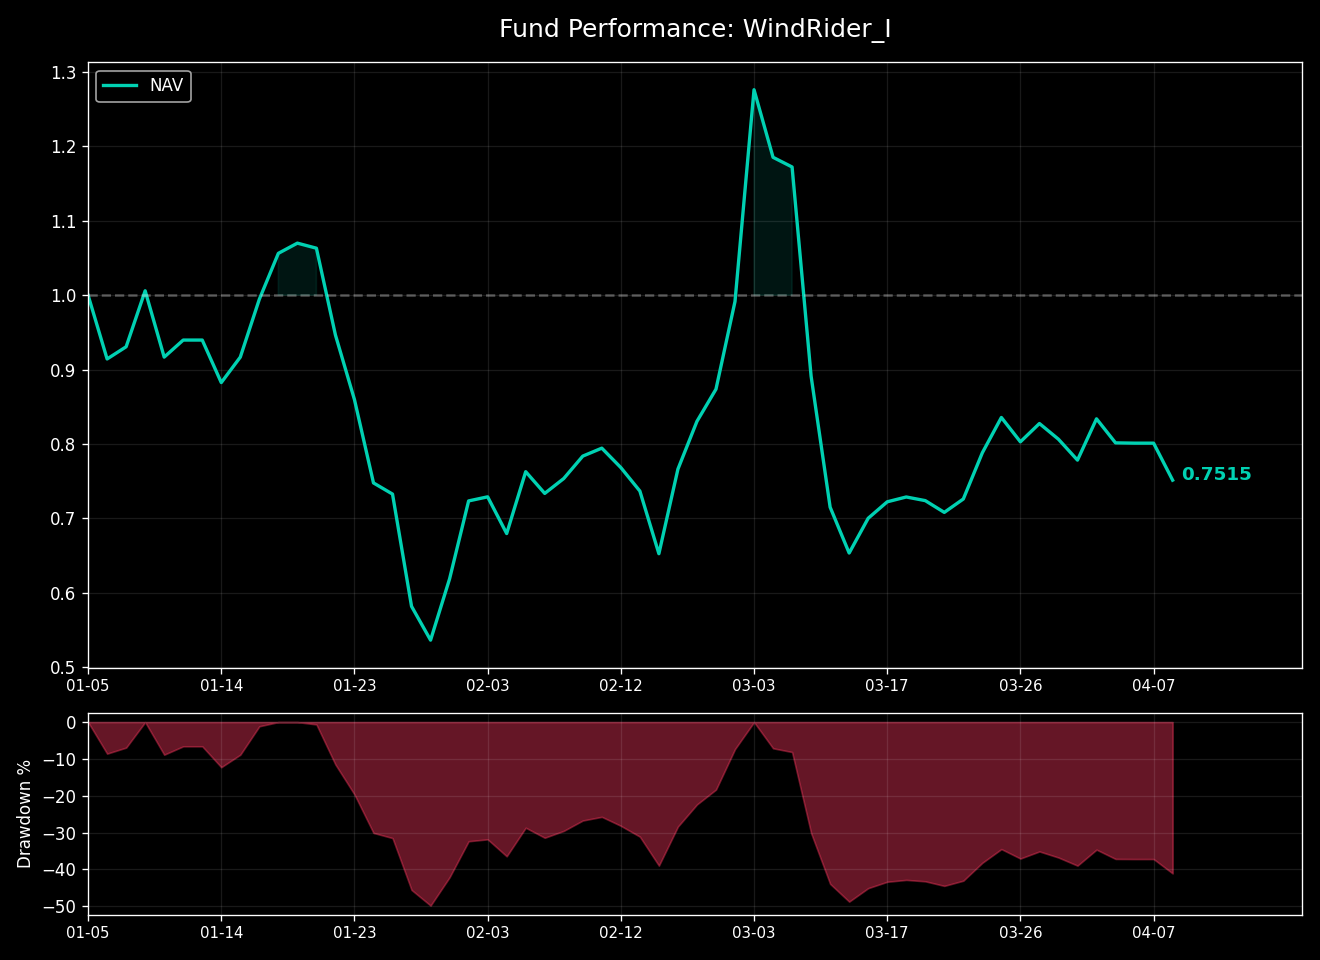
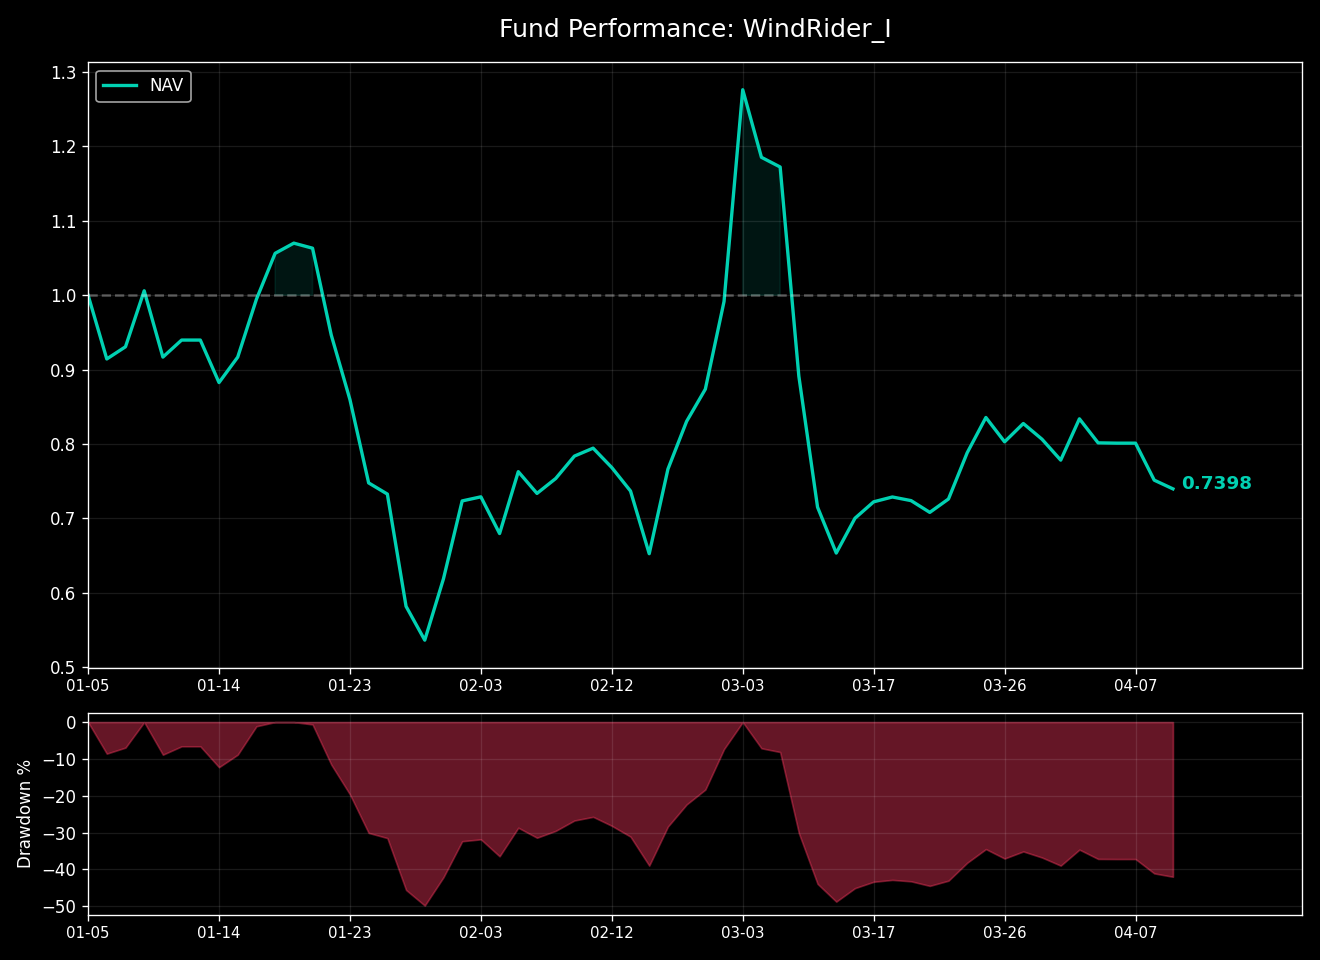
Updated Hugo site content

diff --git a/content/investment/windrider-1.md b/content/investment/windrider-1.md
@@ -1,8 +1,8 @@
 +++
 title = "风舵1号 (WindRider I)  /// 指数"
 summary = "商品期货分形摆动策略，实盘最新净值与核心风险指标。"
-date = 2026-04-08T15:15:03+08:00
-lastmod = 2026-04-08T15:15:03+08:00
+date = 2026-04-09T15:15:03+08:00
+lastmod = 2026-04-09T15:15:03+08:00
 draft = false
 description = "商品期货分形摆动策略实盘"
 +++
@@ -15,24 +15,24 @@ description = "商品期货分形摆动策略实盘"
 
 ### 风舵1号 (WindRider I) &nbsp;&nbsp;<span style="color: #E63946; font-weight: bold;">/</span><span style="color: #F1A73E; font-weight: bold;">/</span><span style="color: #000091; font-weight: bold;">/</span>&nbsp;&nbsp; 指数
 商品期货分形摆动策略实盘<br>
-净值简报 <small>(截至: 2026-04-08)</small>
+净值简报 <small>(截至: 2026-04-09)</small>
 
 |  |  |
 | :--- | :--- |
 | **指数代码：** | WDR1.CTA |
 | **起步日期：** | 2026-01-05 |
-| **最新净值：** | 0.7515 |
-| **今日涨跌：** | -6.20% |
+| **最新净值：** | 0.7398 |
+| **今日涨跌：** | -1.56% |
 
 ===========================
 
 | 核心指标 | |
 | :--- | :--- |
-| **累计涨跌：** | -24.85% |
-| **年化收益：** | -67.41% |
+| **累计涨跌：** | -26.02% |
+| **年化收益：** | -68.97% |
 | **最大回撤：** | -49.85% |
-| **卡玛比率：** | -1.35 |
-| **策略状态：** | 已运行 94 天 |
+| **卡玛比率：** | -1.38 |
+| **策略状态：** | 已运行 95 天 |
 
 ### 净值曲线
 ![风舵1号净值曲线](/images/investment/windrider_nav.png)
